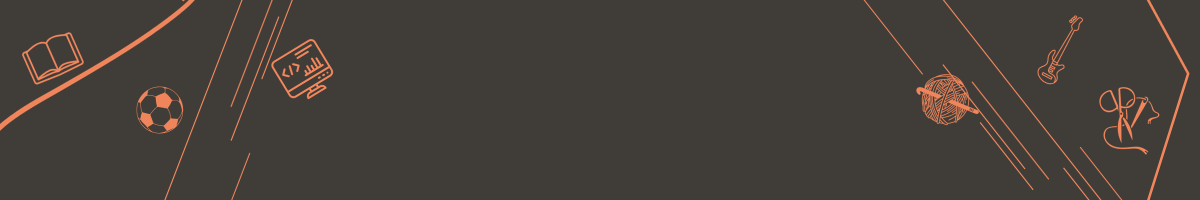
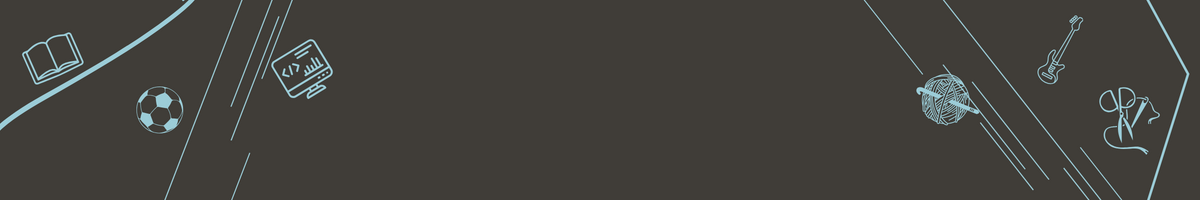
TODAY IS THE TRADE DAY BABYYYYYYYYYYYYYYY

diff --git a/estilos/style.css b/estilos/style.css
@@ -1,3 +1,12 @@
+/*
+colors: 
+ #072D44 
+ #064469 
+ #5790AB 
+ #9CCDD8 
+ #D0D7E1
+*/
+
 @charset "UTF-8";
 
 @import url('https://fonts.googleapis.com/css2?family=Bebas+Neue&family=Inconsolata&family=Nanum+Gothic+Coding&family=Rufina:wght@700&display=swap');
@@ -9,6 +18,7 @@
 @import url('https://fonts.googleapis.com/css2?family=Damion&display=swap');
 
 p{
+    color: #072d44;
     font-family: 'Quattrocento', serif;
     font-size: 16px;
     text-align: center;
@@ -16,7 +26,7 @@ p{
 }
 
 body{
-    background-color: #f8f7f3;
+    background-color: #d0d7e1;
     max-width: 1200px;
     min-width: 320px;
     margin: auto;
@@ -31,7 +41,7 @@ h1{
     text-align: center;
     padding-top: 35px;
     margin: 40px 0px 0px 0px;
-    color: #f0855b;
+    color: #9CCDD8 ;
     text-shadow: 2px 2px 2px rgba(105, 105, 105, 0.674);
 }
 
@@ -40,7 +50,7 @@ div#container > header{
         min-width: 801px;
         max-width: 1200px;
         height: 200px;
-        box-shadow: 8px 9px 40px 0px #f0855b;
+        box-shadow: 8px 9px 40px 0px #064469;
         margin: 0px 0px 10px 0px;
         border-radius: 15px 15px 15px 15px;
 }
@@ -79,33 +89,33 @@ h2{
     font-family: 'Rufina', serif;
     font-size: 25px;
     text-align: center;
-    color: #ed7444;
+    color: #5790AB;
 }
 
 h3{
     font-size: 30px;
     text-align: center;
-    color: #f0855b;
+    color: #064469;
 }
 
 blockquote {
     text-align: center;
-    color: #ed7444;
+    color: #5790AB;
 }
 
 ul{
     padding: 10px;
-    color:#ed7444;
+    color:#5790AB;
     display:flex;
     justify-content: space-evenly;
 }
 
 mark{
-    background-color: #f0855bad;
+    background-color: #9CCDD8;
 }
 
 #citacoes{
-    border: #f0855b solid;
+    border: 5px #9CCDD8 solid;
     padding: 20px;
     text-align: center;
     margin: auto;
@@ -137,11 +147,11 @@ nav a:hover{
     transition: all .4s;
     transform: scale(1.1) translateY(-5px);
     background-color: transparent;
-    color: #f0855b;
+    color: #5790AB;
 }
         
 footer{
-    background-color: #f0855b;
+    background-color: #9CCDD8;
     border-radius: 20px;
 }
         

diff --git a/index.html b/index.html
@@ -43,7 +43,7 @@
                 Elas seguem a mesma lógica das disciplinas optativas presentes em alguns cursos do Ensino Superior, e são importantes para que o conhecimento do aluno não fique muito restrito.
             
                 Geralmente, as disciplinas eletivas são mais curtas, com duração de apenas um semestre. Enquanto as disciplinas obrigatórias, o projeto de vida e os itinerários formativos acompanharão o aluno por toda a jornada do Ensino Médio.</p>
-                <blockquote><a href="https://provafacilnaweb.com.br/blog/disciplinas-eletivas-do-novo-ensino-medio/" target="_blank"  style="color: #f0855b; margin: auto; text-align: center; display: flex; justify-content: space-evenly;" >Prova fácil</a> Local da citação a cima</blockquote> <br>
+                <blockquote><a href="https://provafacilnaweb.com.br/blog/disciplinas-eletivas-do-novo-ensino-medio/" target="_blank"  style="color:  #9CCDD8 ; margin: auto; text-align: center; display: flex; justify-content: space-evenly;" >Prova fácil</a> Local da citação a cima</blockquote> <br>
         </article>
             <h3>Citações Profissionais:</h3>
 
@@ -86,7 +86,7 @@
                 <picture>
                     <source media="(max-width: 700px)" srcset="imagens/" type="image/">
                     <source media="(max-width: 1000px)"  srcset="imagens/" type="image/"> 
-                    <a href="jefferson.html" target="_blank"><img src="imagens/musica.jpg" data-text="Musicalizando a escola"></a>
+                    <a href="jefferson.html" target="_blank"><img src="imagens/musica.png" data-text="Musicalizando a escola"></a>
                 </picture>
             </div>
             <br>

diff --git a/wellington.html b/wellington.html
@@ -11,14 +11,23 @@
       header{
         background-image: url('imagens/header-front.jpg');
       }
+      @font-face {
+    font-family: 'pixel';
+    src: url(fontes/rainyhearts.ttf) format(truetype);
+}
     </style>
     </head>
     <body>
         <header>
-          <h1>Front-End</h1>
+          <h1 style="font-family: 'pixel'; font-size: 120px;">Front-End</h1>
         </header>
         
         <main>
+          <section>
+            <article id="comeco">
+              <P>A eletiva de front-End foi produzida e liderada pelos professores Wellington e André, que nesse semestre ensinaram do conceito básico ao avançado em linguagens Front-End.</P>
+            </article>
+          </section>
           <section>
             <article id="definição">
               <p>Lorem ipsum dolor sit amet, consectetur adipisicing elit. Doloremque deleniti, veritatis eius eaque, odit non necessitatibus nemo assumenda obcaecati, esse molestiae nam tempora nobis? Illo laborum ullam culpa assumenda odio. Lorem ipsum dolor sit amet consectetur adipisicing elit. Deserunt, tenetur officia consectetur repellat non hic amet esse rerum dolorem eaque! Eos sapiente deserunt qui ratione ad nihil ipsa? Architecto, ratione?</p>
@@ -36,8 +45,11 @@
           <article id="imagens">
           <img src="imagens/code.png"> <img src="imagens/site.png">
           </article>
+
           <section>
             <article id="trabalhos">
+              <h2>Nossos trabalhos:</h2><br>
+              <p>Na nossa eletiva foram feitos diversos websites, e aqui estão os links para que você possa visitar cada um deles!</p>
             </article>
           </section>
           

diff --git a/estilos/style6.css b/estilos/style6.css
@@ -1,11 +1,13 @@
 /*
 colors: 
-#f0855b
-#a5a5a543 citações
-#ed7444
-#f8f7f3
+ #072D44 
+ #064469 
+ #5790AB 
+ #9CCDD8 
+ #D0D7E1
 */
 @charset "UTF-8";
+
 
 @import url('https://fonts.googleapis.com/css2?family=Bebas+Neue&family=Inconsolata&family=Nanum+Gothic+Coding&family=Rufina:wght@700&display=swap');
 @import url('https://fonts.googleapis.com/css2?family=Quattrocento&display=swap');
@@ -24,7 +26,7 @@ header{
 
 h1{
     letter-spacing: 5px;
-    font-family: 'Sedgwick Ave Display', cursive;
+    font-family: 'pixel';
     font-size: 80px;
     display: grid;
     place-content: center;
